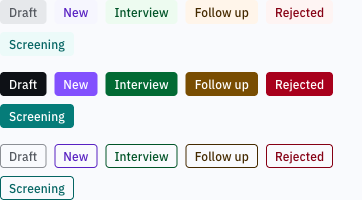
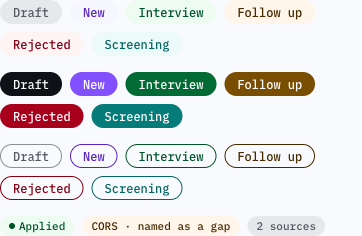
feat(ui): Badge rounded, a boolean that defaults to true (replaces shape)
Salem: pills take a rounded boolean, opt out rather than opt in, since most
badges are status or evidence. rounded (default) is the full radius in the
mono face; rounded={false} keeps the 4px corner in the sans face.
data-rounded replaces data-shape; BadgeShape is gone (never released).

diff --git a/packages/ui/src/components/Badge/Badge.stories.tsx b/packages/ui/src/components/Badge/Badge.stories.tsx
@@ -22,7 +22,7 @@ const meta = {
     tone: { control: 'radio', options: tones },
     variant: { control: 'radio', options: ['soft', 'solid', 'outline'] },
     size: { control: 'radio', options: ['sm', 'md'] },
-    shape: { control: 'radio', options: ['rounded', 'pill'] },
+    rounded: { control: 'boolean' },
   },
 } satisfies Meta<typeof Badge>;
 export default meta;
@@ -62,45 +62,57 @@ export const SmallWithDot: Story = {
   ),
 };
 
-/** `shape="pill"`: full radius in the mono face, for status and evidence (the homepage's pills). */
-export const Pill: Story = {
+/** Rounded (the default): full radius in the mono face, for status and evidence (the homepage's pills). */
+export const Rounded: Story = {
   render: () => (
     <Stack gap="md">
       {(['soft', 'solid', 'outline'] as const).map((variant) => (
         <Inline key={variant} gap="xs">
           {tones.map((tone) => (
-            <Badge key={tone} tone={tone} variant={variant} shape="pill">
+            <Badge key={tone} tone={tone} variant={variant}>
               {labels[tone]}
             </Badge>
           ))}
         </Inline>
       ))}
       <Inline gap="xs">
-        <Badge shape="pill" size="sm" tone="success" dot>
+        <Badge size="sm" tone="success" dot>
           Applied
         </Badge>
-        <Badge shape="pill" size="sm" tone="warning">
+        <Badge size="sm" tone="warning">
           CORS · named as a gap
         </Badge>
-        <Badge shape="pill" size="sm">
-          2 sources
-        </Badge>
+        <Badge size="sm">2 sources</Badge>
       </Inline>
     </Stack>
   ),
 };
 
-export const PillDark: Story = {
-  name: 'Pill, dark theme',
+export const RoundedDark: Story = {
+  name: 'Rounded, dark theme',
   render: () => (
     <DarkTheme>
       <Inline gap="xs">
         {tones.map((tone) => (
-          <Badge key={tone} tone={tone} shape="pill" dot>
+          <Badge key={tone} tone={tone} dot>
             {labels[tone]}
           </Badge>
         ))}
       </Inline>
     </DarkTheme>
+  ),
+};
+
+/** `rounded={false}`: the 4px corner in the sans face, for dense tables or beside square controls. */
+export const SquareCorners: Story = {
+  name: 'Square corners (rounded={false})',
+  render: () => (
+    <Inline gap="xs">
+      {tones.map((tone) => (
+        <Badge key={tone} tone={tone} rounded={false}>
+          {labels[tone]}
+        </Badge>
+      ))}
+    </Inline>
   ),
 };

diff --git a/packages/ui/src/components/Badge/Badge.tsx b/packages/ui/src/components/Badge/Badge.tsx
@@ -4,7 +4,6 @@ import { cx } from '../../utils/cx';
 export type BadgeTone = 'neutral' | 'accent' | 'success' | 'warning' | 'danger' | 'info';
 export type BadgeVariant = 'soft' | 'solid' | 'outline';
 export type BadgeSize = 'sm' | 'md';
-export type BadgeShape = 'rounded' | 'pill';
 
 export interface BadgeProps extends ComponentPropsWithRef<'span'> {
   /** Color reinforces the status; the word is the status. */
@@ -16,10 +15,11 @@ export interface BadgeProps extends ComponentPropsWithRef<'span'> {
   /** A 6px dot before the label for scannable lists. */
   dot?: boolean | undefined;
   /**
-   * `rounded` (default) is a 4px corner in the sans face; `pill` is fully round in the mono face, for status and
-   * evidence badges ("Applied", "2 sources", "CORS · named as a gap").
+   * Fully round ends in the mono face, the homepage's pill (default `true`). Most badges are status or evidence
+   * ("Applied", "2 sources", "CORS · named as a gap"), so this is opt-out: `rounded={false}` gives the 4px corner in
+   * the sans face, for dense tables or a badge that sits beside square controls.
    */
-  shape?: BadgeShape | undefined;
+  rounded?: boolean | undefined;
 }
 
 /** One or two words of status beside a thing. Text only; never clickable. */
@@ -28,7 +28,7 @@ export function Badge({
   variant = 'soft',
   size = 'md',
   dot = false,
-  shape = 'rounded',
+  rounded = true,
   className,
   children,
   ...rest
@@ -39,7 +39,7 @@ export function Badge({
       data-tone={tone}
       data-variant={variant}
       data-size={size}
-      data-shape={shape}
+      data-rounded={rounded || undefined}
       {...rest}
     >
       {dot ? <span className="sc-badge__dot" aria-hidden="true" /> : null}

diff --git a/packages/ui/src/styles/badge.css b/packages/ui/src/styles/badge.css
@@ -25,15 +25,16 @@
   padding-inline: var(--sc-spacing-2xs);
   font-size: calc(var(--sc-font-size-xs) * 0.92);
 }
-/* pill: full radius in the mono face (the homepage's .pill), for status and evidence. Mono runs wider, so no
-   tracking; the extra inline padding keeps the text clear of the round ends. */
-.sc-badge[data-shape='pill'] {
+/* rounded (the default): full radius in the mono face (the homepage's .pill), for status and evidence. Mono runs
+   wider, so no tracking; the extra inline padding keeps the text clear of the round ends. rounded={false} keeps
+   the 4px corner in the sans face above. */
+.sc-badge[data-rounded] {
   border-radius: var(--sc-radius-full);
   padding-inline: var(--sc-spacing-sm);
   font-family: var(--sc-font-family-mono);
   letter-spacing: 0;
 }
-.sc-badge[data-shape='pill'][data-size='sm'] {
+.sc-badge[data-rounded][data-size='sm'] {
   padding-inline: var(--sc-spacing-xs);
 }
 .sc-badge__dot {

diff --git a/packages/ui/src/components/Badge/Badge.test.tsx b/packages/ui/src/components/Badge/Badge.test.tsx
@@ -33,18 +33,18 @@ describe('Badge info tone', () => {
   });
 });
 
-describe('Badge shape', () => {
-  it('is rounded by default and pill on request', async () => {
+describe('Badge rounded', () => {
+  it('is rounded by default and square-cornered on request', async () => {
     const { container } = render(
       <>
-        <Badge>Draft</Badge>
-        <Badge shape="pill" tone="success" dot>
+        <Badge tone="success" dot>
           Applied
         </Badge>
+        <Badge rounded={false}>Draft</Badge>
       </>,
     );
-    expect(screen.getByText('Draft')).toHaveAttribute('data-shape', 'rounded');
-    expect(screen.getByText('Applied')).toHaveAttribute('data-shape', 'pill');
+    expect(screen.getByText('Applied')).toHaveAttribute('data-rounded', 'true');
+    expect(screen.getByText('Draft')).not.toHaveAttribute('data-rounded');
     await expectNoA11yViolations(container);
   });
 });

diff --git a/packages/ui/src/index.ts b/packages/ui/src/index.ts
@@ -2,7 +2,6 @@ export { Button, type ButtonProps, type ButtonSize, type ButtonVariant } from '.
 export {
   Badge,
   type BadgeProps,
-  type BadgeShape,
   type BadgeSize,
   type BadgeTone,
   type BadgeVariant,
